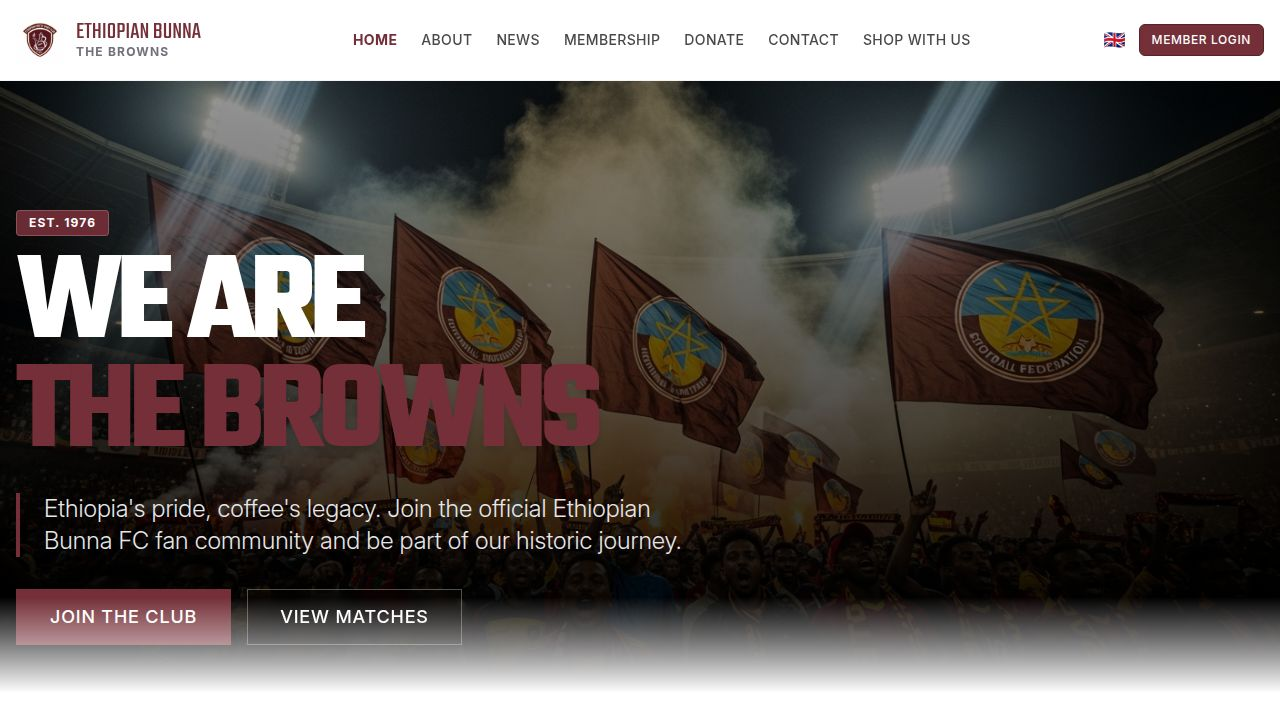
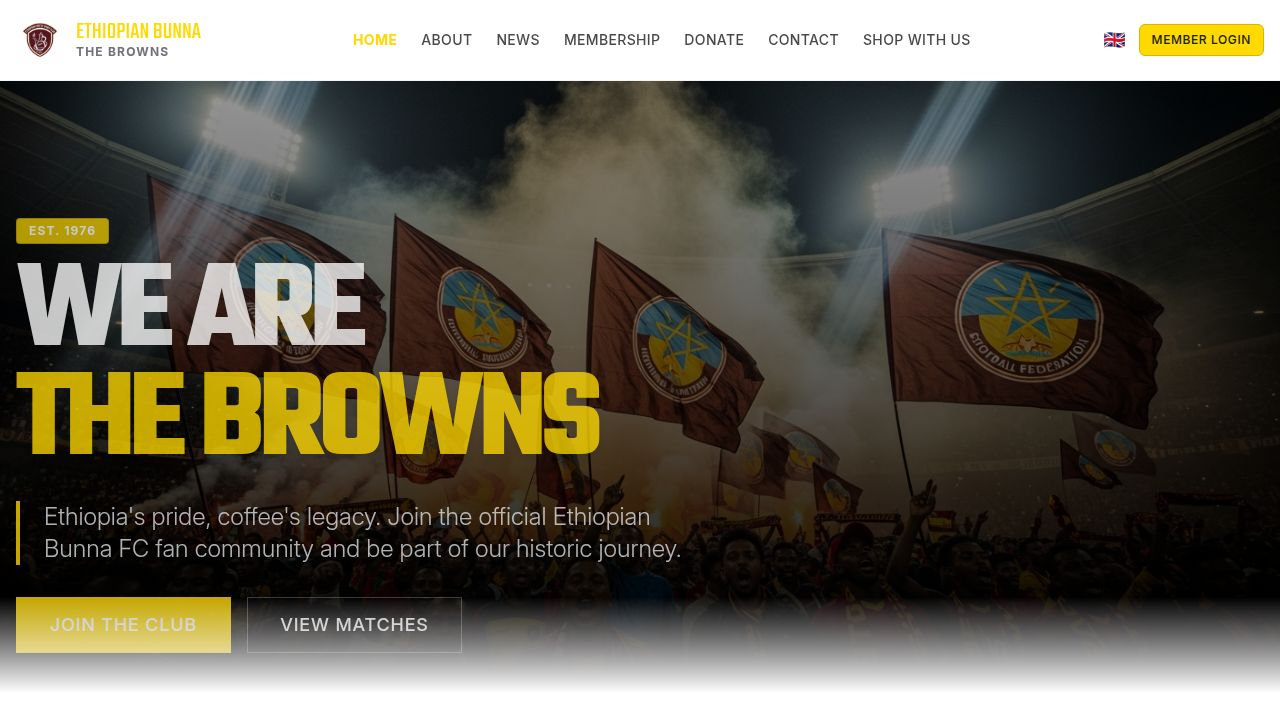
Published your App
Replit-Commit-Author: Deployment
Replit-Commit-Session-Id: 8c0b5ae8-36e7-46c0-81b6-e2521319ddec
Replit-Commit-Checkpoint-Type: full_checkpoint
Replit-Commit-Event-Id: 020a0b67-81ee-4879-af8b-d9c5fe973fbf
Replit-Commit-Screenshot-Url: https://storage.googleapis.com/screenshot-production-us-central1/491877f3-0869-4977-81d3-efddc7df4f87/8c0b5ae8-36e7-46c0-81b6-e2521319ddec/2vda4yP
Replit-Commit-Deployment-Build-Id: 235933d2-6a16-48d5-917a-7c6edbea1262

diff --git a/client/src/lib/mockData.ts b/client/src/lib/mockData.ts
@@ -1,12 +1,3 @@
-import logoImg from '@assets/generated_images/ethiopian_bunna_fc_logo.png';
-import heroImg from '@assets/generated_images/maroon_brown_stadium_atmosphere.png';
-import teamCelebrationImg from '@assets/generated_images/bunna_fc_goal_celebration.png';
-import coachSidelinesImg from '@assets/generated_images/bunna_fc_coach_sidelines.png';
-import stadiumFansImg from '@assets/generated_images/bunna_fc_stadium_fans.png';
-import trophyCelebrationImg from '@assets/generated_images/bunna_fc_trophy_celebration.png';
-import playerAutographsImg from '@assets/generated_images/bunna_fc_player_autographs.png';
-import trainingSessionImg from '@assets/generated_images/bunna_fc_training_session.png';
-
 export const LANGUAGES = [
   { code: 'en', label: 'English', flag: '🇬🇧' },
   { code: 'am', label: 'አማርኛ', flag: '🇪🇹' },
@@ -29,7 +20,7 @@ export const MEMBERSHIP_TIERS = [
     name: 'Premium',
     price: { etb: 1500, usd: 45 },
     benefits: ['All Regular Benefits', 'Priority Ticket Booking', '10% Store Discount', 'Vote on Club Matters'],
-    color: 'bg-primary text-white',
+    color: 'bg-primary text-black',
     recommended: true,
   },
   {
@@ -37,7 +28,7 @@ export const MEMBERSHIP_TIERS = [
     name: 'VIP',
     price: { etb: 5000, usd: 150 },
     benefits: ['All Premium Benefits', 'VIP Stadium Seating', 'Meet & Greet Players', 'Exclusive Merchandise'],
-    color: 'bg-yellow-500 text-black',
+    color: 'bg-secondary text-white',
     recommended: false,
   },
 ];
@@ -45,69 +36,69 @@ export const MEMBERSHIP_TIERS = [
 export const NEWS_POSTS = [
   {
     id: 1,
-    slug: 'sheger-derby-victory',
-    title: 'ቡናማዎቹ በሸገር ደርቢ 3-1 አሸናፊ! | The Browns Dominate Sheger Derby',
-    excerpt: 'Ethiopian Coffee secured a historic victory at Addis Ababa Stadium against fierce rivals Saint George. ኢትዮጵያ ቡና በአዲስ አበባ ስታዲየም ታሪካዊ ድል አስመዘገበ።',
+    slug: 'addis-derby-victory',
+    title: 'ቅዱስ ጊዮርጊስ በአዲስ ደርቢ 2-0 አሸናፊ! | St George Dominates Addis Derby',
+    excerpt: 'Saint George secured another historic derby victory at Addis Ababa Stadium. ቅዱስ ጊዮርጊስ በታላቁ የአዲስ ደርቢ ተጨዋቾች ታሪካዊ ድል አስመዘገበ።',
     date: '2025-12-05',
-    image: teamCelebrationImg,
+    image: 'https://images.unsplash.com/photo-1574629810360-7efbbe195018?w=800&q=80',
     category: 'ግጥሚያ | Match Report',
   },
   {
     id: 2,
-    slug: 'ethiopian-premier-league-top',
-    title: 'Ethiopian Coffee Leads Premier League Table',
-    excerpt: 'With 8 consecutive wins, The Browns sit proudly at the top of the Betking Ethiopian Premier League, bringing glory to their passionate coffee-loving fans.',
+    slug: 'premier-league-champions',
+    title: 'St George Crowned 2025 Premier League Champions',
+    excerpt: 'The Horsemen clinch their 16th Ethiopian Premier League title, further cementing their legacy as the most successful club in Ethiopian football history.',
     date: '2025-12-03',
-    image: stadiumFansImg,
+    image: 'https://images.unsplash.com/photo-1522778119026-d647f0596c20?w=800&q=80',
     category: 'ሊግ | League News',
   },
   {
     id: 3,
-    slug: 'community-youth-program',
-    title: 'ቡናማዎቹ ለወጣቶች | Browns Youth Academy Expands',
-    excerpt: 'Ethiopian Coffee launches new youth development centers across Addis Ababa, nurturing the next generation of Ethiopian football talent. ለወጣቶች የእግር ኳስ ስልጠና ማዕከል ተከፈተ።',
+    slug: 'youth-academy-expansion',
+    title: 'ቅዱስ ጊዮርጊስ አካዳሚ | Saint George Youth Academy Grows',
+    excerpt: 'The Yidnekachew Tessema Youth Academy in Bishoftu continues to develop Ethiopia\'s next generation of football stars. ለወጣቶች የእግር ኳስ ስልጠና ማዕከል ተስፋፋ።',
     date: '2025-11-28',
-    image: playerAutographsImg,
+    image: 'https://images.unsplash.com/photo-1431324155629-1a6deb1dec8d?w=800&q=80',
     category: 'ማህበረሰብ | Community',
   },
   {
     id: 4,
     slug: 'pre-season-training-camp',
-    title: 'The Browns Complete Intensive Pre-Season Camp',
-    excerpt: 'The squad returns fit and ready after a successful training camp, focusing on fitness, tactics, and team bonding ahead of the new season.',
+    title: 'The Horsemen Complete Intensive Pre-Season Camp',
+    excerpt: 'Saint George squad returns fit and ready after a successful training camp, focusing on fitness, tactics, and team bonding ahead of the new season.',
     date: '2025-11-20',
-    image: trainingSessionImg,
+    image: 'https://images.unsplash.com/photo-1526232761682-d26e03ac148e?w=800&q=80',
     category: 'ስልጠና | Training',
   },
   {
     id: 5,
-    slug: 'ethiopian-cup-champions',
-    title: 'ኢትዮጵያ ቡና የኢትዮጵያ ዋንጫ ሻምፒዮን! | Ethiopian Cup Champions 2025',
-    excerpt: 'Historic moment at Addis Ababa Stadium as Ethiopian Coffee lifts the Ethiopian Cup trophy! Captain hoists the cup as thousands of fans celebrate.',
+    slug: 'ethiopian-cup-champions-2025',
+    title: 'ቅዱስ ጊዮርጊስ የኢትዮጵያ ዋንጫ ሻምፒዮን! | Ethiopian Cup Champions 2025',
+    excerpt: 'Historic 8th Ethiopian Cup victory! Captain lifts the trophy as thousands of passionate fans celebrate at Addis Ababa Stadium.',
     date: '2025-11-15',
-    image: trophyCelebrationImg,
+    image: 'https://images.unsplash.com/photo-1579952363873-27f3bade9f55?w=800&q=80',
     category: 'ዋንጫ | Trophy',
   },
   {
     id: 6,
-    slug: 'stadium-renovation-announcement',
-    title: 'Addis Ababa Stadium Renovation Project Announced',
-    excerpt: 'Major upgrades coming to our beloved home ground! The historic Addis Ababa Stadium will receive modern facilities while preserving its connection to Ethiopian football heritage.',
+    slug: 'new-stadium-construction',
+    title: 'New St George Stadium Construction Update',
+    excerpt: 'The 312 million Birr stadium project funded by Sheikh Hussein Ali Alamuddin and supporters is progressing on schedule. A new home for The Horsemen!',
     date: '2025-11-10',
-    image: heroImg,
+    image: 'https://images.unsplash.com/photo-1540747913346-19e32dc3e97e?w=800&q=80',
     category: 'ክለብ | Club News',
   },
 ];
 
 export const ASSETS = {
-  logo: logoImg,
-  hero: heroImg,
+  logo: 'https://upload.wikimedia.org/wikipedia/en/5/5d/Saint_George_S.C._logo.png',
+  hero: 'https://images.unsplash.com/photo-1508098682722-e99c43a406b2?w=1920&q=80',
 };
 
 export const MOCK_MEMBER = {
-  firstName: 'Abebe',
-  lastName: 'Kebede',
-  membershipId: 'EC-2025-8832',
+  firstName: 'Dawit',
+  lastName: 'Tadesse',
+  membershipId: 'SG-2025-1935',
   tier: 'PREMIUM',
   status: 'ACTIVE',
   expiryDate: '2026-05-21',

diff --git a/client/src/components/Footer.tsx b/client/src/components/Footer.tsx
@@ -12,10 +12,10 @@ export default function Footer() {
   });
 
   const brandingSettings = {
-    headerText: (Array.isArray(settings) ? settings.find((s: any) => s.key === 'branding.headerText')?.value : null) || 'ETHIOPIAN BUNNA',
+    headerText: (Array.isArray(settings) ? settings.find((s: any) => s.key === 'branding.headerText')?.value : null) || 'ST GEORGE FC',
     logo: (Array.isArray(settings) ? settings.find((s: any) => s.key === 'branding.logo')?.value : null) || ASSETS.logo,
-    footerTagline: (Array.isArray(settings) ? settings.find((s: any) => s.key === 'branding.footerTagline')?.value : null) || "The official home of The Browns. Connecting fans, players, and Ethiopia's coffee heritage since 1976.",
-    copyrightText: (Array.isArray(settings) ? settings.find((s: any) => s.key === 'branding.copyrightText')?.value : null) || 'Ethiopian Coffee Sport Club',
+    footerTagline: (Array.isArray(settings) ? settings.find((s: any) => s.key === 'branding.footerTagline')?.value : null) || "The official home of The Horsemen. Ethiopia's most decorated football club since 1935.",
+    copyrightText: (Array.isArray(settings) ? settings.find((s: any) => s.key === 'branding.copyrightText')?.value : null) || 'Saint George Sport Association',
     facebookUrl: (Array.isArray(settings) ? settings.find((s: any) => s.key === 'social.facebook')?.value : null) || '#',
     twitterUrl: (Array.isArray(settings) ? settings.find((s: any) => s.key === 'social.twitter')?.value : null) || '#',
     instagramUrl: (Array.isArray(settings) ? settings.find((s: any) => s.key === 'social.instagram')?.value : null) || '#',
@@ -28,7 +28,7 @@ export default function Footer() {
         <div className="grid grid-cols-1 md:grid-cols-4 gap-8">
           <div className="col-span-1 md:col-span-1">
             <Link href="/" className="flex items-center gap-2 mb-4">
-              <img src={brandingSettings.logo} alt="Ethiopian Bunna" className="h-12 w-12" />
+              <img src={brandingSettings.logo} alt="Saint George FC" className="h-12 w-12" />
               <span className="font-heading text-2xl text-primary">{brandingSettings.headerText}</span>
             </Link>
             <p className="text-sm text-muted-foreground mb-6">
@@ -80,7 +80,7 @@ export default function Footer() {
           <div>
             <h3 className="font-display text-lg font-semibold mb-4">Newsletter</h3>
             <p className="text-sm text-muted-foreground mb-4">
-              Subscribe to get the latest news and updates from Ethiopian Coffee SC.
+              Subscribe to get the latest news and updates from Saint George FC.
             </p>
             <form className="flex gap-2" onSubmit={(e) => e.preventDefault()}>
               <input 

diff --git a/client/src/index.css b/client/src/index.css
@@ -85,13 +85,13 @@
   --popover: 0 0% 100%;
   --popover-foreground: 0 0% 10%;
 
-  /* Ethiopian Bunna Maroon #722F37 -> HSL ~352 42% 32% */
-  --primary: 352 42% 32%;
-  --primary-foreground: 0 0% 100%;
+  /* St George Yellow #FFD700 -> HSL ~51 100% 50% */
+  --primary: 51 100% 50%;
+  --primary-foreground: 0 0% 10%;
 
-  /* Gold Accent #D4A017 -> HSL ~43 80% 46% */
-  --secondary: 43 80% 46%;
-  --secondary-foreground: 0 0% 10%;
+  /* St George Red #DC143C -> HSL ~348 83% 47% */
+  --secondary: 348 83% 47%;
+  --secondary-foreground: 0 0% 100%;
 
   --muted: 240 4.8% 95.9%;
   --muted-foreground: 240 3.8% 46.1%;
@@ -104,13 +104,13 @@
 
   --border: 240 5.9% 90%;
   --input: 240 5.9% 90%;
-  --ring: 352 42% 32%;
+  --ring: 51 100% 50%;
 
-  --chart-1: 352 42% 32%;
-  --chart-2: 43 80% 46%;
+  --chart-1: 51 100% 50%;
+  --chart-2: 348 83% 47%;
   --chart-3: 30 40% 30%;
-  --chart-4: 43 74% 66%;
-  --chart-5: 27 87% 67%;
+  --chart-4: 51 90% 70%;
+  --chart-5: 348 70% 60%;
 
   --sidebar: 0 0% 98%;
   --sidebar-foreground: 240 5.3% 26.1%;
@@ -191,11 +191,11 @@
   --popover: 240 10% 3.9%;
   --popover-foreground: 0 0% 98%;
 
-  --primary: 352 42% 38%;
-  --primary-foreground: 0 0% 100%;
+  --primary: 51 100% 50%;
+  --primary-foreground: 0 0% 10%;
 
-  --secondary: 43 80% 46%;
-  --secondary-foreground: 0 0% 10%;
+  --secondary: 348 83% 47%;
+  --secondary-foreground: 0 0% 100%;
 
   --muted: 240 3.7% 15.9%;
   --muted-foreground: 240 5% 64.9%;
@@ -208,13 +208,13 @@
 
   --border: 240 3.7% 15.9%;
   --input: 240 3.7% 15.9%;
-  --ring: 352 42% 38%;
+  --ring: 51 100% 50%;
 
-  --chart-1: 352 42% 38%;
-  --chart-2: 43 80% 46%;
+  --chart-1: 51 100% 50%;
+  --chart-2: 348 83% 47%;
   --chart-3: 30 40% 35%;
-  --chart-4: 280 65% 60%;
-  --chart-5: 340 75% 55%;
+  --chart-4: 51 90% 70%;
+  --chart-5: 348 70% 60%;
   
   --sidebar: 240 5.9% 10%;
   --sidebar-foreground: 240 4.8% 95.9%;

diff --git a/client/index.html b/client/index.html
@@ -4,14 +4,14 @@
     <meta charset="UTF-8" />
     <meta name="viewport" content="width=device-width, initial-scale=1.0, maximum-scale=1" />
 
-    <meta property="og:title" content="Ethiopian Bunna FC Fan Club" />
-    <meta property="og:description" content="Official Fan Club Platform for The Browns - Ethiopian Coffee Sport Club" />
+    <meta property="og:title" content="St George Sport Association Ethiopia" />
+    <meta property="og:description" content="Official Fan Club Platform for The Horsemen - Kidus Giorgis FC, Ethiopia's Most Decorated Football Club Since 1935" />
     <meta property="og:type" content="website" />
     <meta property="og:image" content="https://replit.com/public/images/opengraph.png" />
     <meta name="twitter:card" content="summary_large_image" />
     <meta name="twitter:site" content="@replit" />
-    <meta name="twitter:title" content="Ethiopian Bunna FC Fan Club" />
-    <meta name="twitter:description" content="Official Fan Club Platform for The Browns - Ethiopian Coffee Sport Club" />
+    <meta name="twitter:title" content="St George Sport Association Ethiopia" />
+    <meta name="twitter:description" content="Official Fan Club Platform for The Horsemen - Kidus Giorgis FC, Ethiopia's Most Decorated Football Club Since 1935" />
     <meta name="twitter:image" content="https://replit.com/public/images/opengraph.png" />
 
     <link rel="icon" type="image/png" href="/favicon.png" />

diff --git a/client/src/components/Hero.tsx b/client/src/components/Hero.tsx
@@ -23,15 +23,15 @@ export default function Hero() {
           transition={{ duration: 0.8, ease: "easeOut" }}
           className="max-w-3xl"
         >
-          <span className="inline-block py-1 px-3 mb-4 rounded bg-primary/90 text-white text-xs font-bold tracking-widest uppercase border border-primary-foreground/20">
-            Est. 1976
+          <span className="inline-block py-1 px-3 mb-4 rounded bg-primary/90 text-black text-xs font-bold tracking-widest uppercase border border-primary-foreground/20">
+            Est. 1935
           </span>
           <h1 className="font-heading text-6xl md:text-8xl lg:text-9xl font-bold text-white leading-[0.85] mb-6 uppercase tracking-tighter">
             We Are <br />
-            <span className="text-primary drop-shadow-lg">The Browns</span>
+            <span className="text-primary drop-shadow-lg">The Horsemen</span>
           </h1>
           <p className="text-lg md:text-2xl text-gray-200 mb-8 max-w-2xl font-light border-l-4 border-primary pl-6">
-            Ethiopia's pride, coffee's legacy. Join the official Ethiopian Bunna FC fan community and be part of our historic journey.
+            Ethiopia's most decorated club. Join the official Saint George FC fan community and be part of 90 years of glory.
           </p>
           
           <div className="flex flex-col sm:flex-row gap-4">
